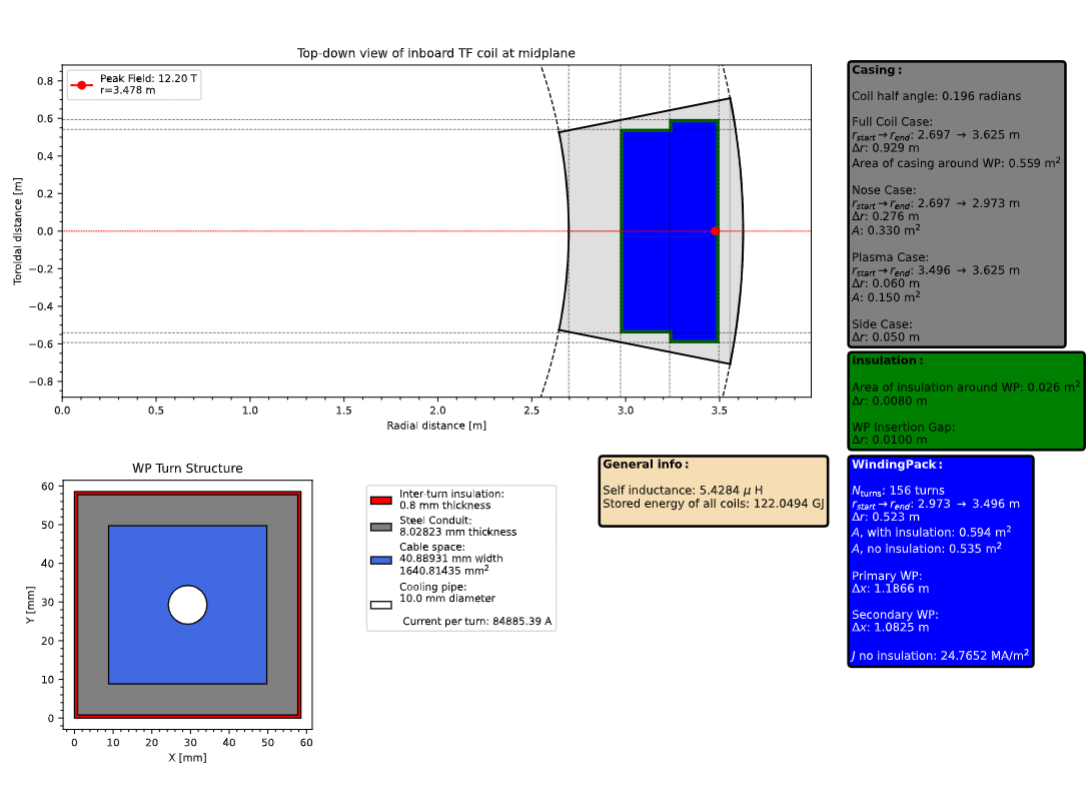
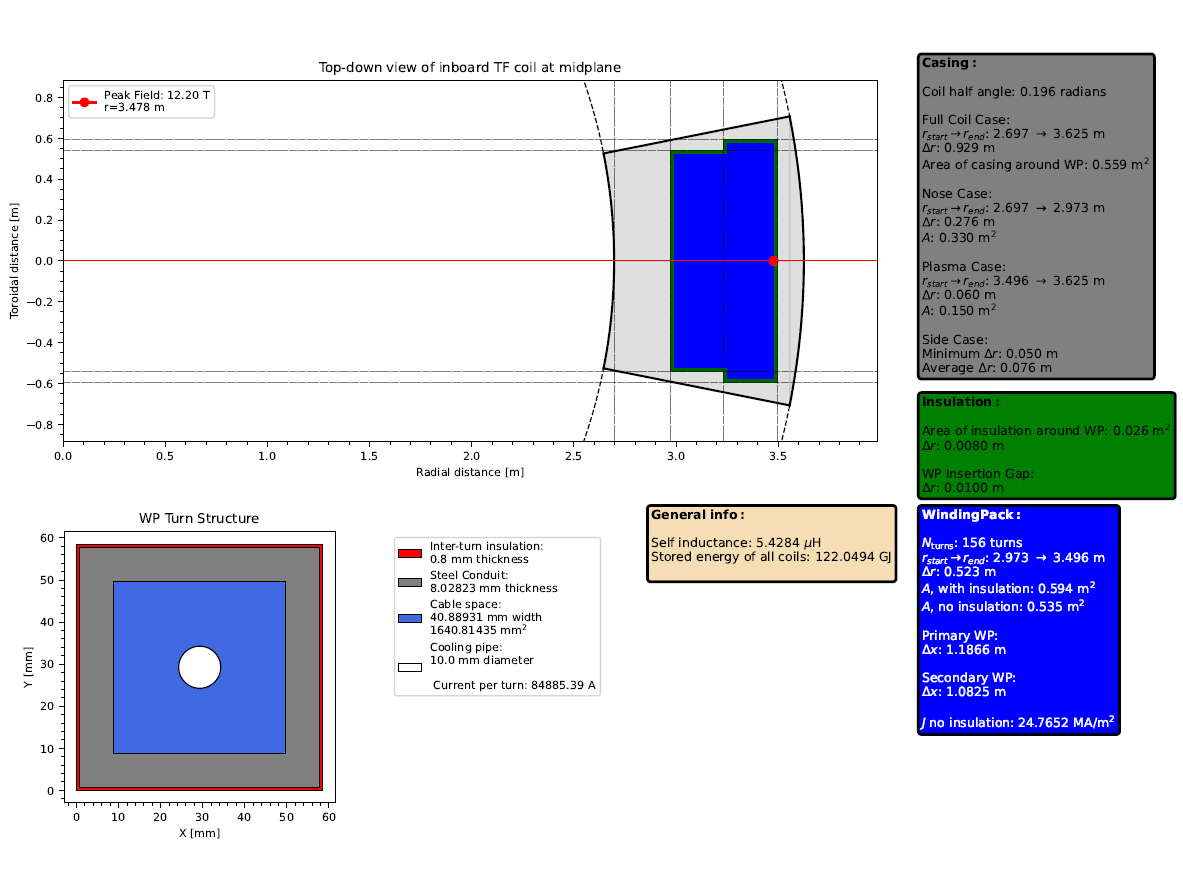
✨ Update TF coil calculations to include minimum and average side case thickness outputs

Changed region(s): [[0.0, 0.0603, 1.0, 0.8442], [0.0, 0.5729, 0.5312, 0.9648]]

diff --git a/process/io/plot_proc.py b/process/io/plot_proc.py
@@ -3247,11 +3247,12 @@ def plot_tf_wp(axis, mfile_data, scan: int, fig) -> None:
             f"$\\Delta r$: {mfile_data.data['dr_tf_plasma_case'].get_scan(scan):.3f} m\n"
             f"$A$: {mfile_data.data['a_tf_plasma_case'].get_scan(scan):.3f} $\\mathrm{{m}}^2$\n\n"
             f"$\\text{{Side Case:}}$\n"
-            f"$\\Delta r$: {mfile_data.data['dx_tf_side_case'].get_scan(scan):.3f} m"
+            f"Minimum $\\Delta r$: {mfile_data.data['dx_tf_side_case_min'].get_scan(scan):.3f} m\n"
+            f"Average $\\Delta r$: {mfile_data.data['dx_tf_side_case_average'].get_scan(scan):.3f} m"
         )
         axis.text(
             0.775,
-            0.9,
+            0.925,
             textstr_casing,
             fontsize=9,
             verticalalignment="top",

diff --git a/process/tf_coil.py b/process/tf_coil.py
@@ -1073,6 +1073,12 @@ class TFCoil:
             )
             po.ovarre(
                 self.outfile,
+                "Inboard leg case sidewall average thickness (m)",
+                "(dx_tf_side_case_average)",
+                sctfcoil_module.dx_tf_side_case_average,
+            )
+            po.ovarre(
+                self.outfile,
                 "External case mass per coil (kg)",
                 "(whtcas)",
                 tfcoil_variables.whtcas,

diff --git a/process/io/obsolete_vars.py b/process/io/obsolete_vars.py
@@ -380,6 +380,7 @@ OBS_VARS = {
     "tbeamin": "n_beam_decay_lengths_core_required",
     "tcycmn": "t_cycle_min",
     "walalw": "pflux_fw_neutron_max_mw",
+    "dx_tf_side_case": "dx_tf_side_case_min",
 }
 
 OBS_VARS_HELP = {
